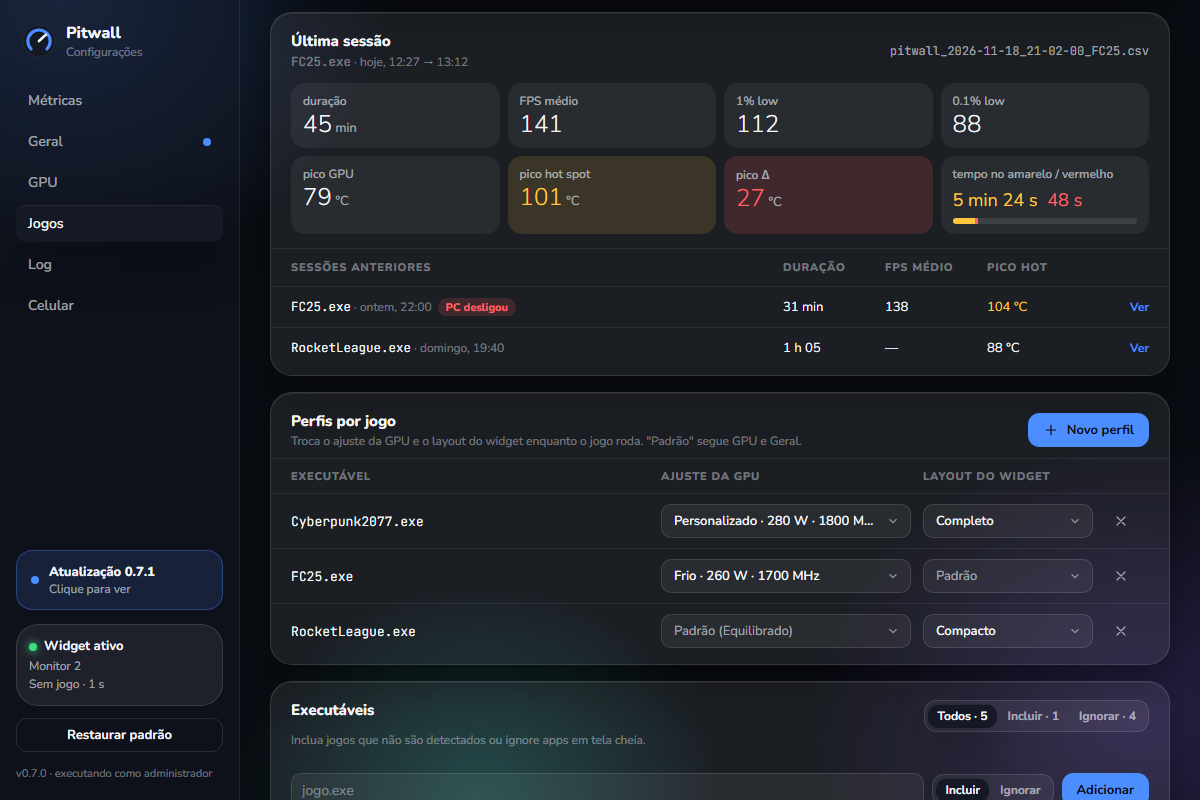
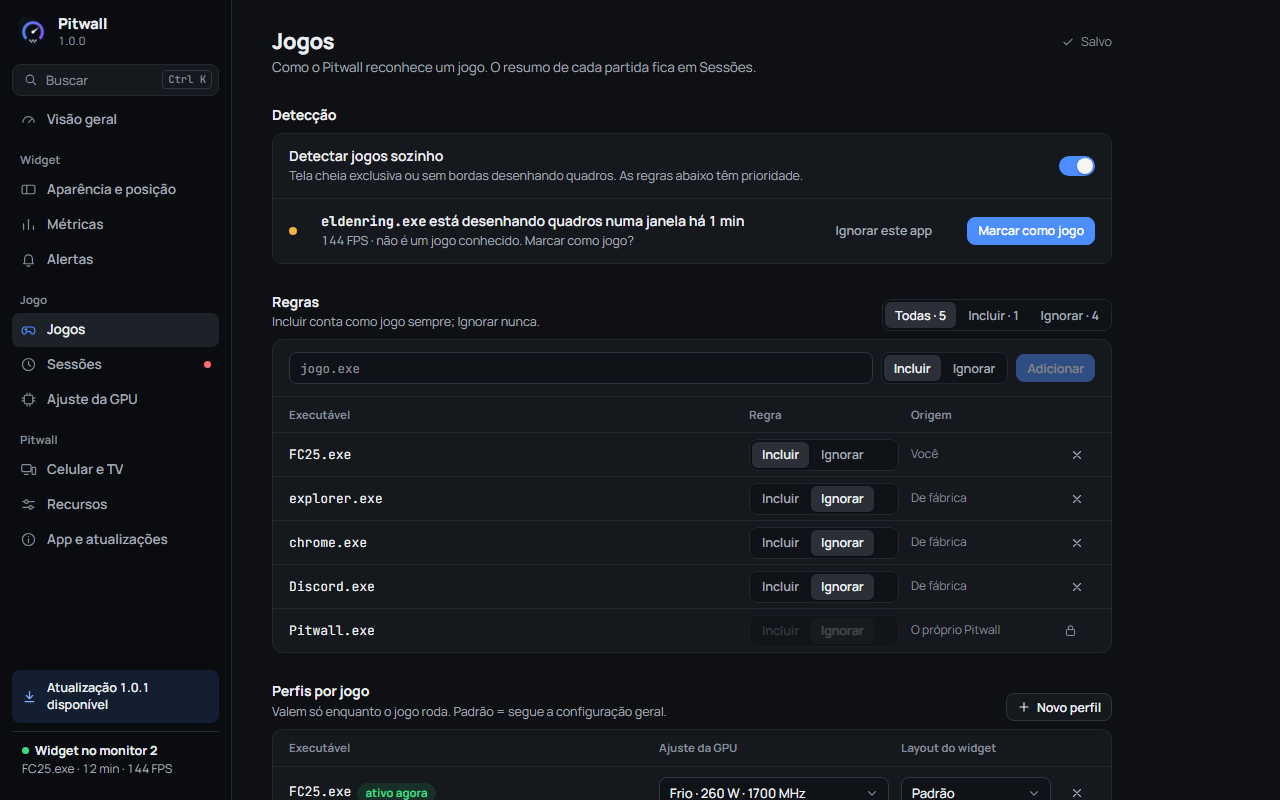
README: capturas da 1.0 (configurações claro/escuro, tour, parear no celular e na TV)
- Novas: settings-overview (escuro, 1280×800), settings-overview-light,
  settings-features, settings-sessions, tour (passo 2 de 8), pair-tv
  (1920×1080 reduzida para 1280) e pair-phone (390×844 @2x).
- settings-metrics e settings-games trocadas pelo visual novo.
- README e README.pt-BR: Visão geral + celular, e o tour (5 imagens).

diff --git a/README.pt-BR.md b/README.pt-BR.md
@@ -19,9 +19,11 @@ Spec: [docs/spec.md](docs/spec.md) · Design: [docs/design-notes.md](docs/design
 ![Widget, layout completo, tema Lumen escuro](docs/screenshots/widget-full-lumen-dark.png)
 ![Widget, layout completo, tema Splash](docs/screenshots/widget-full-splash.png)
 
-<img src="docs/screenshots/settings-games.png" width="620" alt="Configurações: resumo da sessão depois do jogo"> <img src="docs/screenshots/phone-lumen-dark.png" width="200" alt="Página do celular, só leitura, na rede local">
+<img src="docs/screenshots/settings-overview.png" width="620" alt="Configurações: Visão geral com a prévia do widget e o que o Pitwall está fazendo agora"> <img src="docs/screenshots/pair-phone.png" width="200" alt="Parear o celular digitando o código de 6 dígitos">
 
-Mais em [docs/screenshots](docs/screenshots) (todos os temas, layouts médio e compacto, Configurações).
+![Tour da primeira execução: destaque no layout do widget](docs/screenshots/tour.png)
+
+Mais em [docs/screenshots](docs/screenshots) (todos os temas do widget, layouts médio e compacto, Configurações no claro e no escuro, a tela de parear da TV).
 
 ## Arquitetura
 

diff --git a/README.md b/README.md
@@ -19,9 +19,11 @@ memory junction), clocks, power, RAM, wireless mouse/headset battery, a CSV log 
 ![Widget, full layout, Lumen dark theme](docs/screenshots/widget-full-lumen-dark.png)
 ![Widget, full layout, Splash theme](docs/screenshots/widget-full-splash.png)
 
-<img src="docs/screenshots/settings-games.png" width="620" alt="Settings: post-game session summary"> <img src="docs/screenshots/phone-lumen-dark.png" width="200" alt="Read-only phone page on the local network">
+<img src="docs/screenshots/settings-overview.png" width="620" alt="Settings: Overview with the widget preview and what Pitwall is doing now"> <img src="docs/screenshots/pair-phone.png" width="200" alt="Pairing a phone by typing the 6-digit code">
 
-More in [docs/screenshots](docs/screenshots) (every theme, medium and compact layouts, Settings).
+![First-run tour: coach mark on the widget layout](docs/screenshots/tour.png)
+
+More in [docs/screenshots](docs/screenshots) (every widget theme, medium and compact layouts, Settings in light and dark, the TV pairing screen).
 
 ## Install
 
